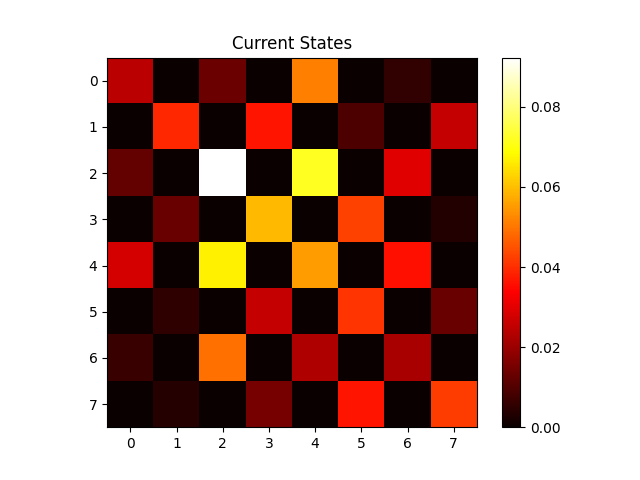
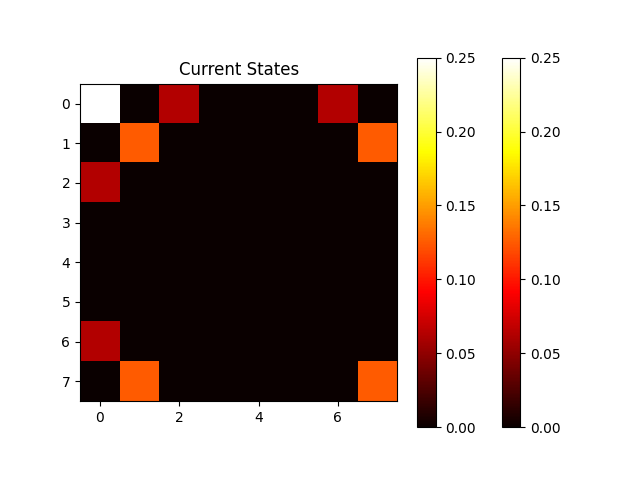
changed proxy and uploaded graph of walk

diff --git a/src/component/js/GraphDisplay.js b/src/component/js/GraphDisplay.js
@@ -28,7 +28,7 @@ const GraphDisplay=(props)=>{
             <div className={classes.display}>
                 <div className="test"></div>
                 <img src="/api/get_qw_test" alt="plot"></img>
-            </div>
+            </div> 
             <div className={classes["slider-container"]}>
                 <StepSlider steps={steps}/>
             </div>

diff --git a/src/setupProxy.js b/src/setupProxy.js
@@ -1,0 +1,11 @@
+const { createProxyMiddleware } = require('http-proxy-middleware');
+
+module.exports = function(app) {
+  app.use(
+    '/api',
+    createProxyMiddleware({
+      target: 'http://localhost:8000',
+      changeOrigin: true,
+    })
+  );
+};

diff --git a/api/quantum_functions.py b/api/quantum_functions.py
@@ -9,6 +9,8 @@ import matplotlib as mpl
 from qiskit.visualization import plot_histogram
 from qiskit.quantum_info import Statevector
 
+mpl.use('Agg')
+
 # QUANTUM HELPERS
 def increment(n_adder):
     qc = QuantumCircuit(n_adder)
@@ -76,7 +78,7 @@ def round_remove_zeroes(np_dict):
 def qwalk2D():
     n_dir = 2
     n_pos = 6
-    iterations = 10
+    iterations = 2
     qwalk_reg = QuantumRegister(n_dir+n_pos+1)
 
     # allocating qubits
@@ -143,7 +145,5 @@ def create_plots2D(states):
         # customizing plot
         plt.title("Current States")
         pixel_plot = plt.imshow(data, cmap='hot')
-
         plt.colorbar(pixel_plot)
-
         plt.savefig('./images/new_plot.png')

diff --git a/api/api.py b/api/api.py
@@ -1,5 +1,5 @@
 import time
-from flask import Flask, request, render_template
+from flask import Flask, request, render_template, send_file
 import io
 
 import random
@@ -36,7 +36,9 @@ def get_graph_test():
 @app.route('/api/get_qw_test', methods=['GET'])
 def get_qw_test():
     create_plots2D(qwalk2D())
-    return render_template('untitled1.html', name = 'new_plot', url ='./images/new_plot.png')
+
+    return send_file('images/new_plot.png', mimetype='image/gif')
+    #return render_template('untitled1.html', name = 'new_plot', url ='./images/new_plot.png')
 
 if __name__ == "__main__":
     app.run(port=8000, debug=True)
